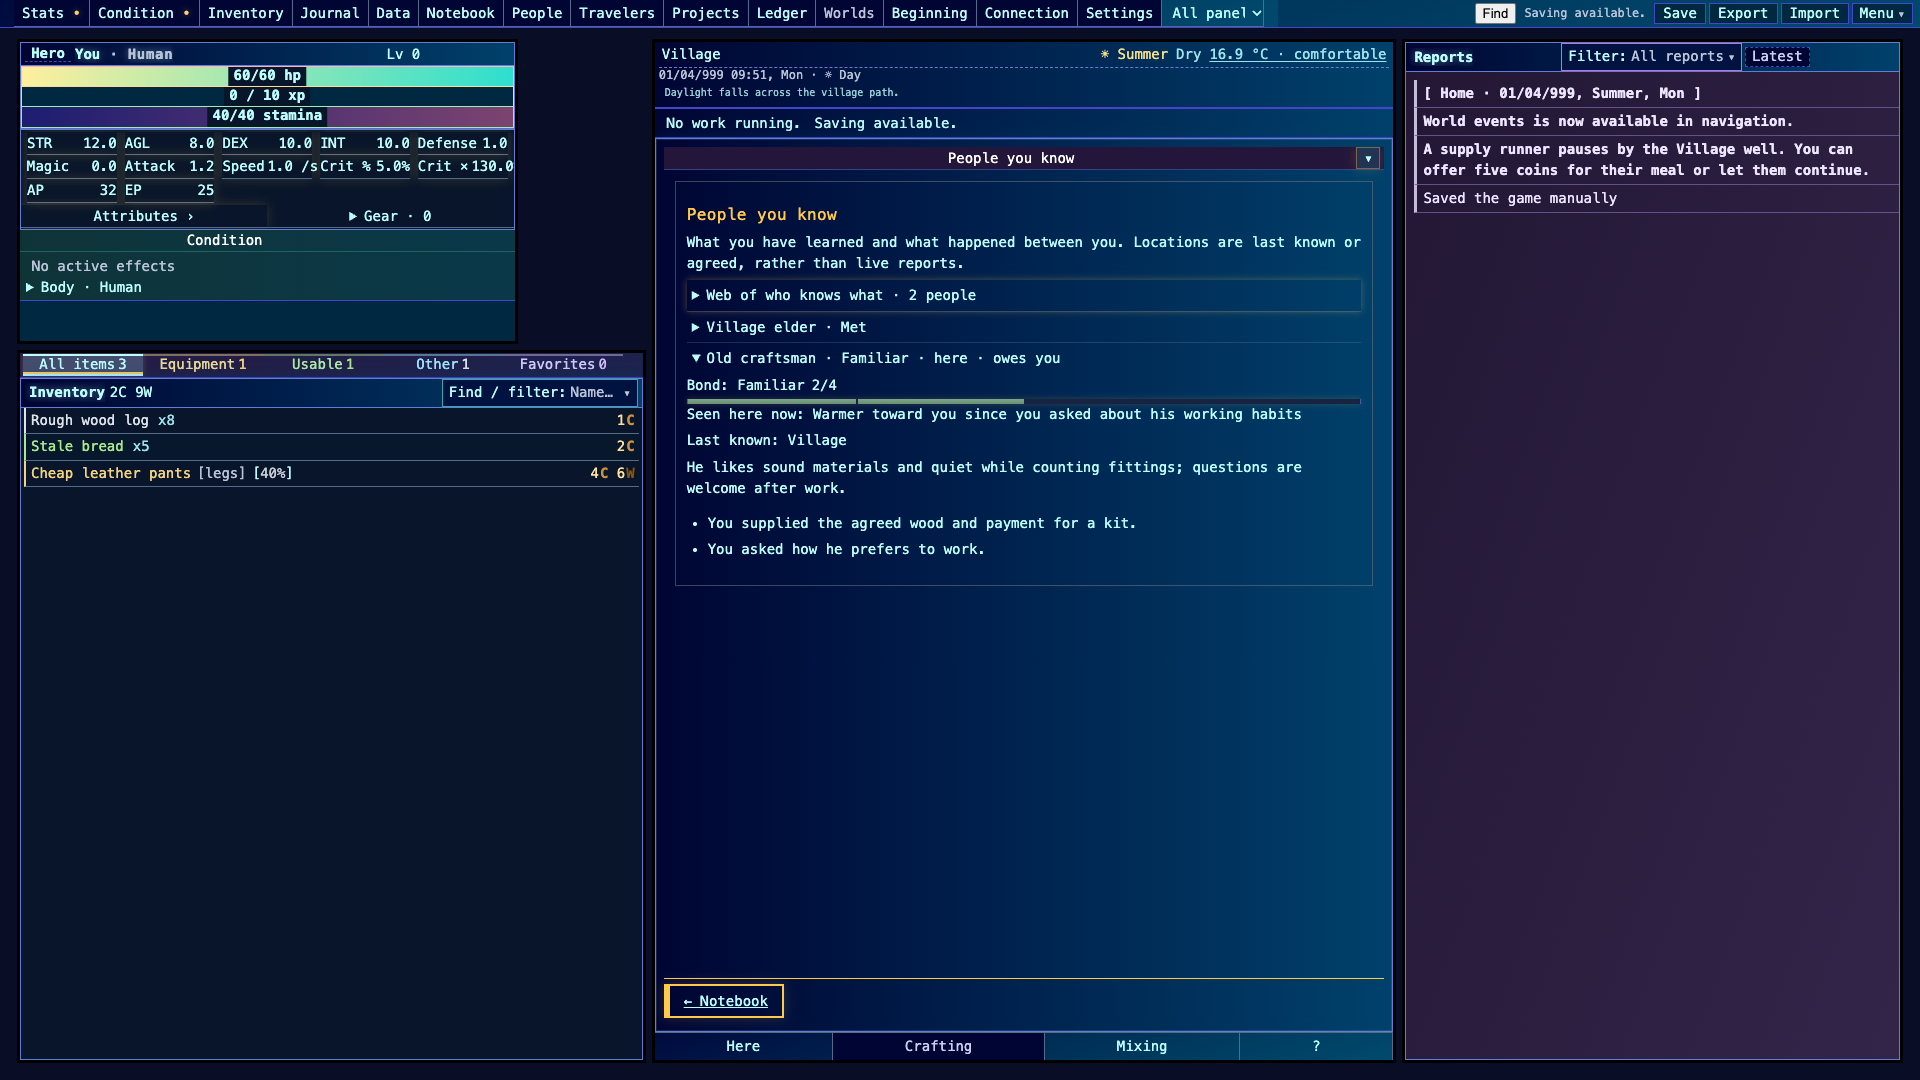
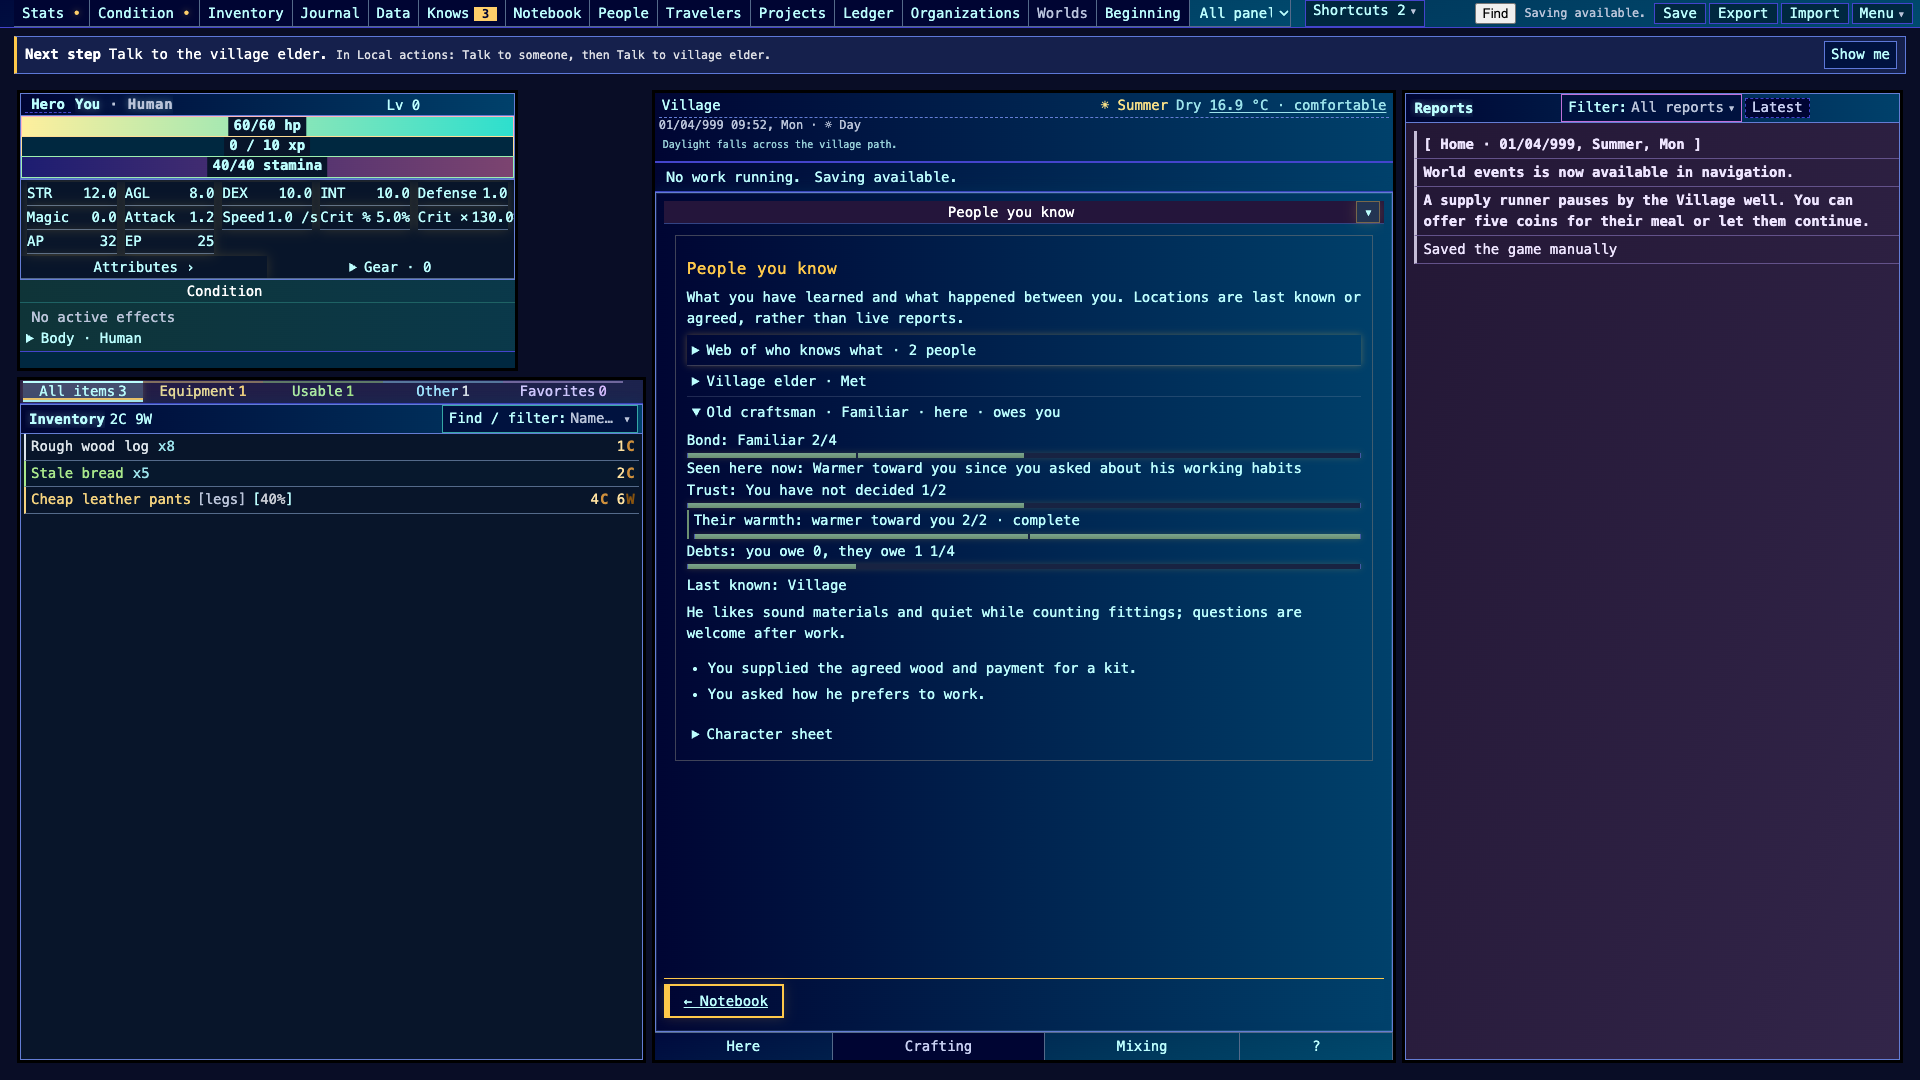
RPX11 round 3 proof: 1920x1080 browser evidence for the bars; selectors updated for talk view and card character sheets
Browser proof passed on bundle v0.6-535991c83c90, 0 page errors. Full suite pending (coordinator batch run). Who-knows sections remain below floor (no live source).

Changed region(s): [[0.0, 0.0, 1.0, 0.7028]]

diff --git a/docs/representations/RELATIONSHIP_WEB.md b/docs/representations/RELATIONSHIP_WEB.md
@@ -366,3 +366,5 @@ source (presence records and the hero's tellings) once sw-bridge lands the book 
 **Round 3 addition: who you can ask.** `registerAskSource` takes `askListFromWhoKnows` output (L13 `knows_ask_bridge.js`); the Knows home lists people and topics only, and Ask calls `start_dialogue` for the person (enabled only when here, else "not here; ask when you meet"). No host registers a source yet, so the section is hidden on a fresh origin.
 
 **Round 3 verification state.** Focused tests: `relationship_web`, `read_models_upcoming_learn_ask`, people_knowledge, knowledge and character_sheet slices pass (38 + 14). Rebuilt with `npm run build`. 1920x1080 browser proof (`scripts/relationship_web_browser.cjs`, now asserts the three bars) is queued for the browser slot and **pending**. Full suite pending (coordinator's batch run). Floor: implemented, below floor, browser proof pending.
+
+**Round 3 browser proof (2026-10-30).** `scripts/relationship_web_browser.cjs` passed at 1920x1080 from a fresh origin on bundle `v0.6-535991c83c90`, 0 page errors; it asserts the Trust, Their warmth and Debts bars on the craftsman card. The script's selectors were updated for the talk view and per-card character sheets. Floor: bars met except the full suite (pending, coordinator's batch run); who-knows and who-you-can-ask remain implemented, below floor on FLR4 (no registered source) and the browser walk (hidden on a fresh origin).
